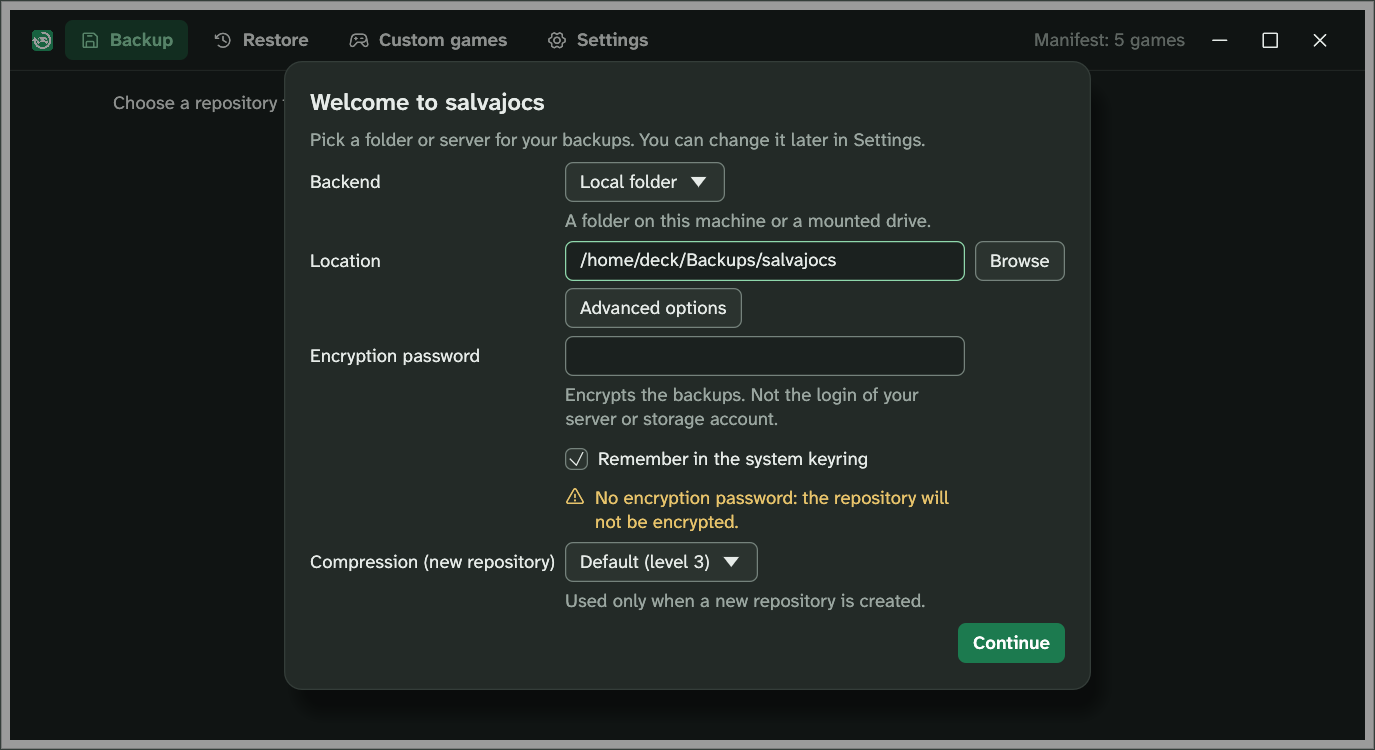
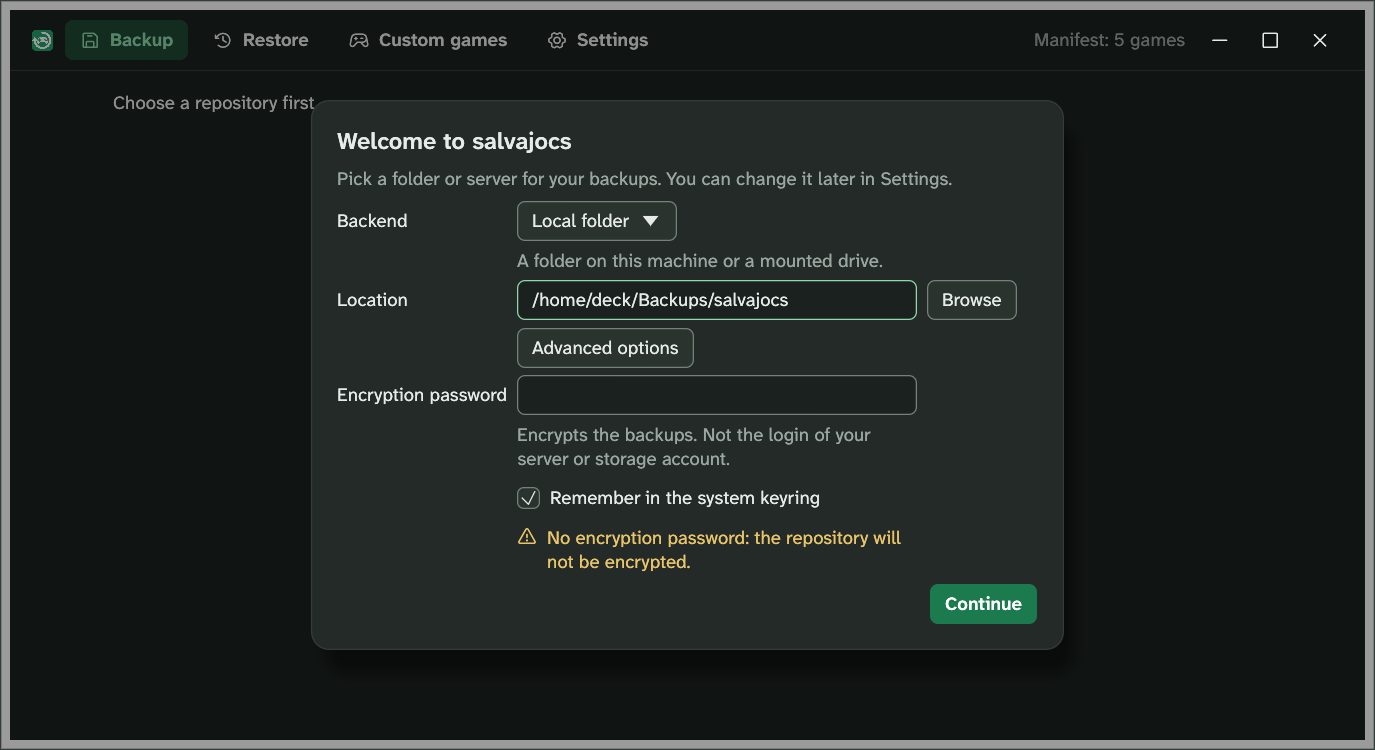
docs: render the screenshots again

diff --git a/README.md b/README.md
@@ -62,7 +62,7 @@ other way round.
 | ![The Backup tab with a scan result](docs/images/backup.png) | ![The Restore tab with the plan for a snapshot](docs/images/restore.png) |
 | **Mapping dialog: where each folder goes on the other build** | **Custom games: a game's paths, pairs and skipped folders** |
 | ![The restore mapping dialog](docs/images/mapping-dialog.png) | ![The Custom games tab with the game form](docs/images/custom-games.png) |
-| **Settings: repository, compression and roots** | **First run: repository, compression and encryption password** |
+| **Settings: repository, compression and roots** | **First run: repository and encryption password** |
 | ![The Settings tab](docs/images/settings.png) | ![The first-run dialog](docs/images/first-run.png) |
 
 ## How it works
